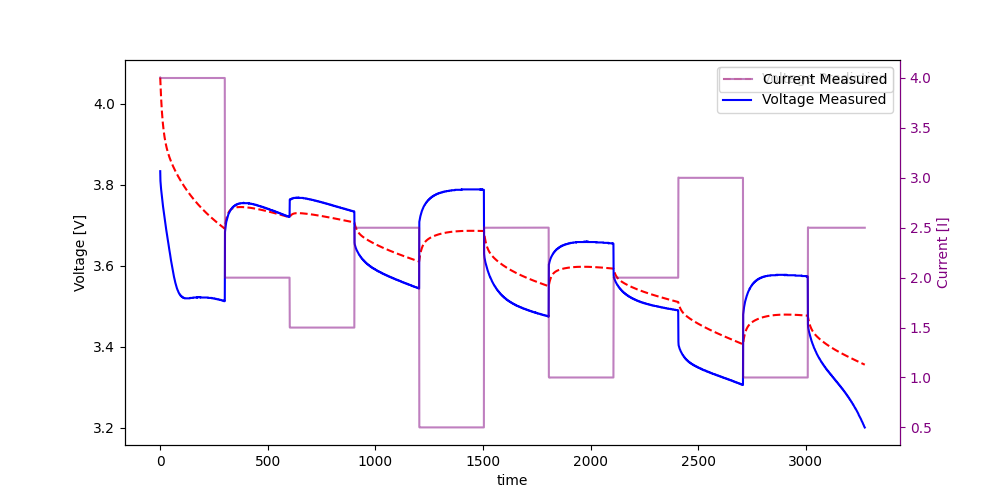
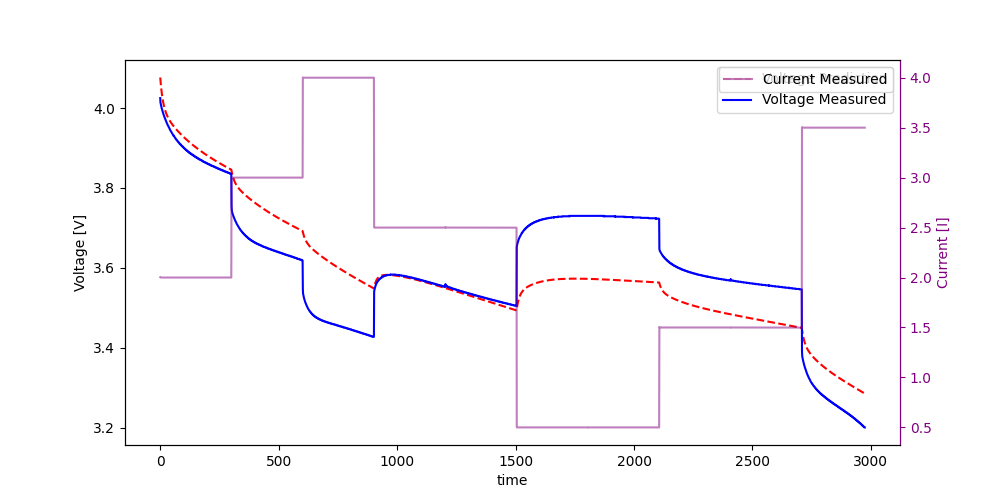
per battery Ro and qMax

diff --git a/torch/train_Ro_qmax_per_battery.py b/torch/train_Ro_qmax_per_battery.py
@@ -11,37 +11,37 @@ import time
 from model import get_model
 #DEVICE = torch.device("cuda" if torch.cuda.is_available() else "cpu")
 DEVICE = torch.device("cpu")
+NUM_EPOCHS = 1000
+BATTERY = 1
 
 ###### FOR REFERENCE : DATA INGESTION STARTS HERE ##########
 data_RW = getDischargeMultipleBatteries(varnames=['voltage', 'current', 'time'], discharge_type='discharge (random walk)')
 
 max_size = 0
-num_seq = 10
+num_seq = 36
 
 inputs = []
 inputs_time = []
 target = []
-for k,rw_data in data_RW.items():
-    # skip batteries RW 9 to 12 for now (RW does not got to EOD)
-    if k>8:
-        continue
-    # rw_data = data_RW[1]
-    time_ = np.hstack([rw_data[2][i] for i in range(len(rw_data[2]))])
-    time_ = time_ - time_[0]
-    current_inputs = np.hstack([rw_data[1][i] for i in range(len(rw_data[1]))])
-    voltage_target = np.hstack([rw_data[0][i] for i in range(len(rw_data[0]))])
 
-    last_idx = 0
-    seq_durations = np.diff([0]+list(np.argwhere(np.diff(time_)>10)[:,0]+1))
-    
-    for curr_duration in seq_durations[:num_seq]:
-        if curr_duration>max_size:
-            max_size = curr_duration
-        curr_idx = last_idx + curr_duration
-        inputs.append(current_inputs[last_idx:curr_idx])
-        inputs_time.append(time_[last_idx:curr_idx])
-        target.append(voltage_target[last_idx:curr_idx])
-        last_idx = curr_idx
+
+rw_data = data_RW[BATTERY]
+time_ = np.hstack([rw_data[2][i] for i in range(len(rw_data[2]))])
+time_ = time_ - time_[0]
+current_inputs = np.hstack([rw_data[1][i] for i in range(len(rw_data[1]))])
+voltage_target = np.hstack([rw_data[0][i] for i in range(len(rw_data[0]))])
+
+last_idx = 0
+seq_durations = np.diff([0]+list(np.argwhere(np.diff(time_)>10)[:,0]+1))
+
+for curr_duration in seq_durations[:num_seq]:
+    if curr_duration>max_size:
+        max_size = curr_duration
+    curr_idx = last_idx + curr_duration
+    inputs.append(current_inputs[last_idx:curr_idx])
+    inputs_time.append(time_[last_idx:curr_idx])
+    target.append(voltage_target[last_idx:curr_idx])
+    last_idx = curr_idx
 
 # add nan to end of seq to have all seq in same size
 for i in range(len(inputs)):
@@ -80,15 +80,20 @@ for row in np.argwhere((target<EOD) | (np.isnan(target))):
         target_shiffed[row[0]] = np.ones(time_window_size) * target[row[0]][0]
         target_shiffed[row[0]][time_window_size-row_1:] = target[row[0]][:row_1]
 
-val_idx = np.linspace(0,31,6,dtype=int)
-train_idx = [i for i in np.arange(0,32) if i not in val_idx]
+val_idx = np.linspace(0,35,6,dtype=int)
+train_idx = [i for i in np.arange(0,36) if i not in val_idx]
 ###### FOR REFERENCE : DATA INGESTION ENDS HERE ##########
 
 
 
-###### FOR REFERENCE : MODEL LOADING STARTS HERE ##########
 
+
+###### FOR REFERENCE : TRAINING STARTS HERE #########
+        
+# Create the MLP model, optimizer, and criterion
 mlp = get_model(dt=dt, mlp=True, share_q_r=False, stateful=True).to(DEVICE)
+
+# load trained weights for MLPp
 weights_path = 'torch_train/mlp_trained_weights.pth'
 mlp_p_weights = torch.load(weights_path)
 
@@ -100,13 +105,71 @@ with torch.no_grad():
     mlp.cell.MLPp[5].weight.copy_(mlp_p_weights['cell.MLPp.5.weight'])
     mlp.cell.MLPp[5].bias.copy_(mlp_p_weights['cell.MLPp.5.bias'])
 
-Ro_qmax_path ='torch_train/Ro_qmax_trained_weights.pth'
-Ro_qmax = torch.load(weights_path)
+# freeze MLPp
+for param in mlp.cell.MLPp.parameters():
+    param.requires_grad = False
 
-with torch.no_grad():
-    mlp.cell.qMax.copy_(Ro_qmax['cell.qMax']) 
-    mlp.cell.Ro.copy_(Ro_qmax['cell.Ro']) 
-###### FOR REFERENCE : MODEL LOADING ENDS HERE ##########
+optimizer = optim.Adam(mlp.parameters(), lr=5e-3)
+criterion = nn.MSELoss().to(DEVICE)
+param_count = sum(p.numel() for p in mlp.parameters() if p.requires_grad)
+print("Total number of trainable parameters are ",param_count)
+# Prepare data
+X = inputs_shiffed[train_idx,:,:]
+Y = target_shiffed[train_idx,:, np.newaxis]
+# Convert data to PyTorch tensors
+X_tensor = torch.from_numpy(X).to(DEVICE)
+Y_tensor = torch.from_numpy(Y).to(DEVICE)
+
+# Create PyTorch Dataset and DataLoader
+dataset = TensorDataset(X_tensor, Y_tensor)
+data_loader = DataLoader(dataset, batch_size=30, shuffle=True)
+print("I am loading ",len(data_loader))
+# Learning rate scheduler
+scheduler = optim.lr_scheduler.LambdaLR(optimizer, lambda epoch: 1 if epoch < 800 else (0.5 if epoch < 1100 else (0.25 if epoch < 2200 else 0.125)))
+# scheduler = optim.lr_scheduler.LambdaLR(optimizer, lambda epoch: 2e-2 if epoch < 800 else (1e-2 if epoch < 1100 else (5e-3 if epoch < 2200 else 1e-3)))
+untrained_parameter_value = [mlp.cell.Ro.data.item(), mlp.cell.qMax.data.item()]
+print("UnTrained Parameter Value:", untrained_parameter_value)
+# Training loop
+start = time.time()
+num_epochs = NUM_EPOCHS
+loss_warm_start = []
+for epoch in range(num_epochs):
+    mlp.train()
+    total_loss = 0.0
+    #print("Epochs are ",epoch)
+    for inputs, targets in data_loader:
+        inputs.to(DEVICE)
+        targets.to(DEVICE)
+
+        optimizer.zero_grad()
+        # Forward pass
+        outputs = mlp(inputs)
+
+        # Compute loss
+        loss = criterion(outputs, targets)
+
+        # Backpropagation
+        loss.backward()
+        # torch.nn.utils.clip_grad_norm_(mlp.parameters(), 1.0) #TODO: This sets gradient clipping
+        optimizer.step()
+        #scheduler.step()
+        total_loss += loss.item()
+
+    # Adjust learning rate using scheduler
+    #scheduler.step()   <-- no idea why they do this we have ADAM
+    # Print epoch statistics
+    if epoch % 100 == 0:
+        loss_warm_start.append(total_loss / len(data_loader))
+        print(f"Epoch {epoch}, Loss: {total_loss / len(data_loader)}, Time : {time.time()-start}, Ro: {mlp.cell.Ro.data.item()}, qMax: {mlp.cell.qMax.data.item()}")
+        for param_group in optimizer.param_groups:
+            current_learning_rate = param_group['lr']
+            print("Current Learning Rate:", current_learning_rate)
+
+# Save model weights
+torch.save(mlp.state_dict(), 'torch_train/Ro_qmax_trained_weights_battery_{BATTERY}.pth')
+trained_parameter_value = [mlp.cell.Ro.data.item(), mlp.cell.qMax.data.item()]
+print("Trained Parameter Value:", trained_parameter_value)
+###### FOR REFERENCE : TRAINING STARTS HERE #########
 
 
 ######## Validation is done here ##########
@@ -137,8 +200,8 @@ for i in range(X.shape[0]):
     ax2.spines["right"].set_edgecolor('purple')
     ax2.tick_params(axis='y', colors='purple')
 
-    plt.savefig(f'figures/predictionvsreality_random_walk_unshiffed{i}_Ro_qMax.png')
-    plt.show()
+    plt.savefig(f'figures/predictionvsreality_random_walk_unshiffed{i}_Ro_qMax_battery_{BATTERY}.png')
+    # plt.show()
 ######## Validation is done here ##########
 
 
@@ -170,6 +233,6 @@ for i in range(X.shape[0]):
     ax2.spines["right"].set_edgecolor('purple')
     ax2.tick_params(axis='y', colors='purple')
 
-    plt.savefig(f'figures/predictionvsreality_random_walk_shiffed{i}_Ro_qMax.png')
-    plt.show()
+    plt.savefig(f'figures/predictionvsreality_random_walk_shiffed{i}_Ro_qMax_battery_{BATTERY}.png')
+    # plt.show()
 ######## Validation is done here ##########
